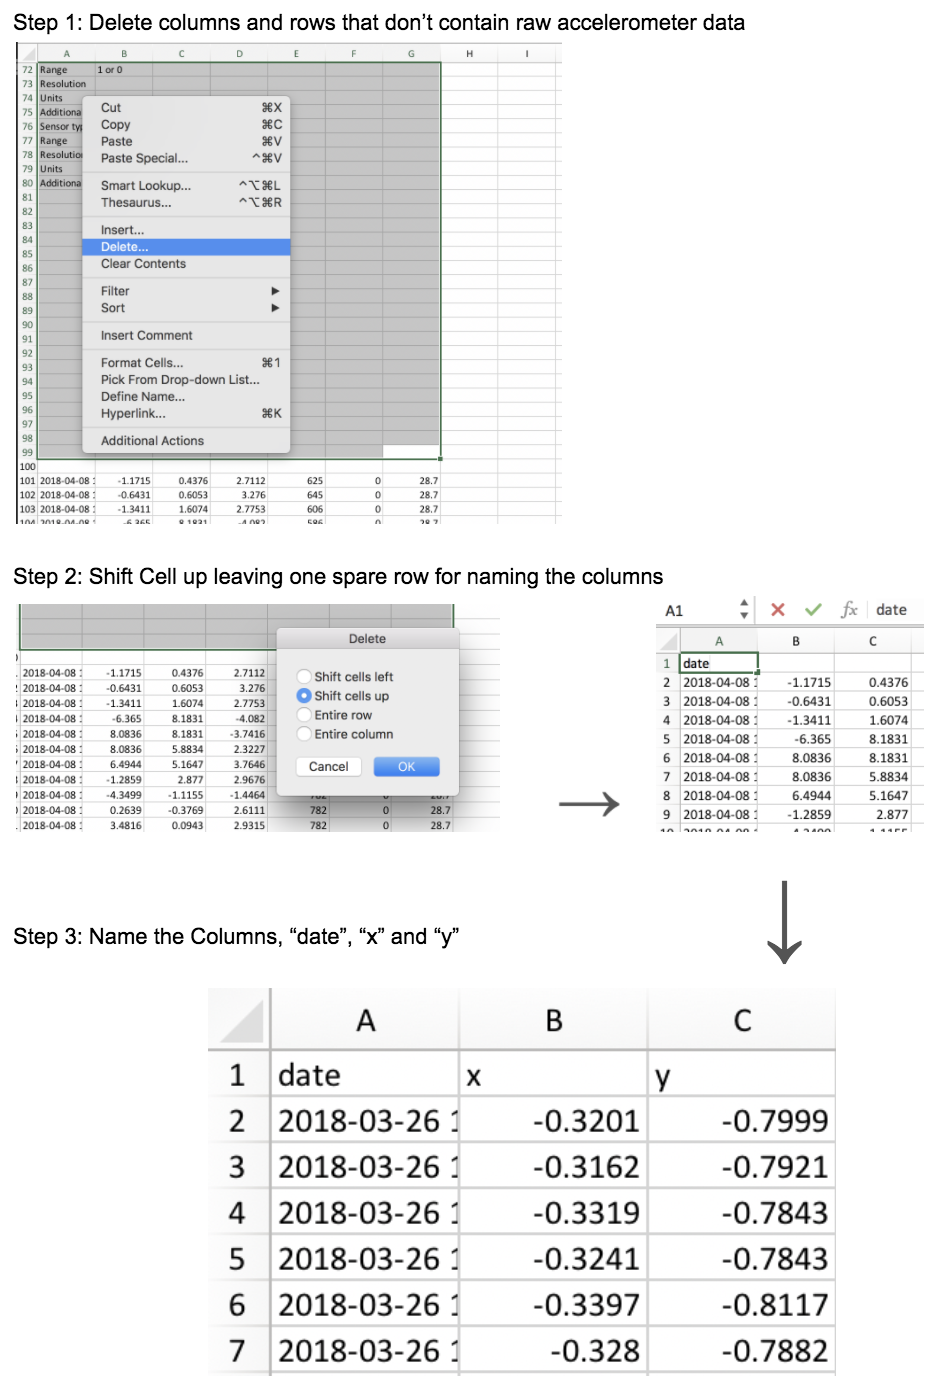
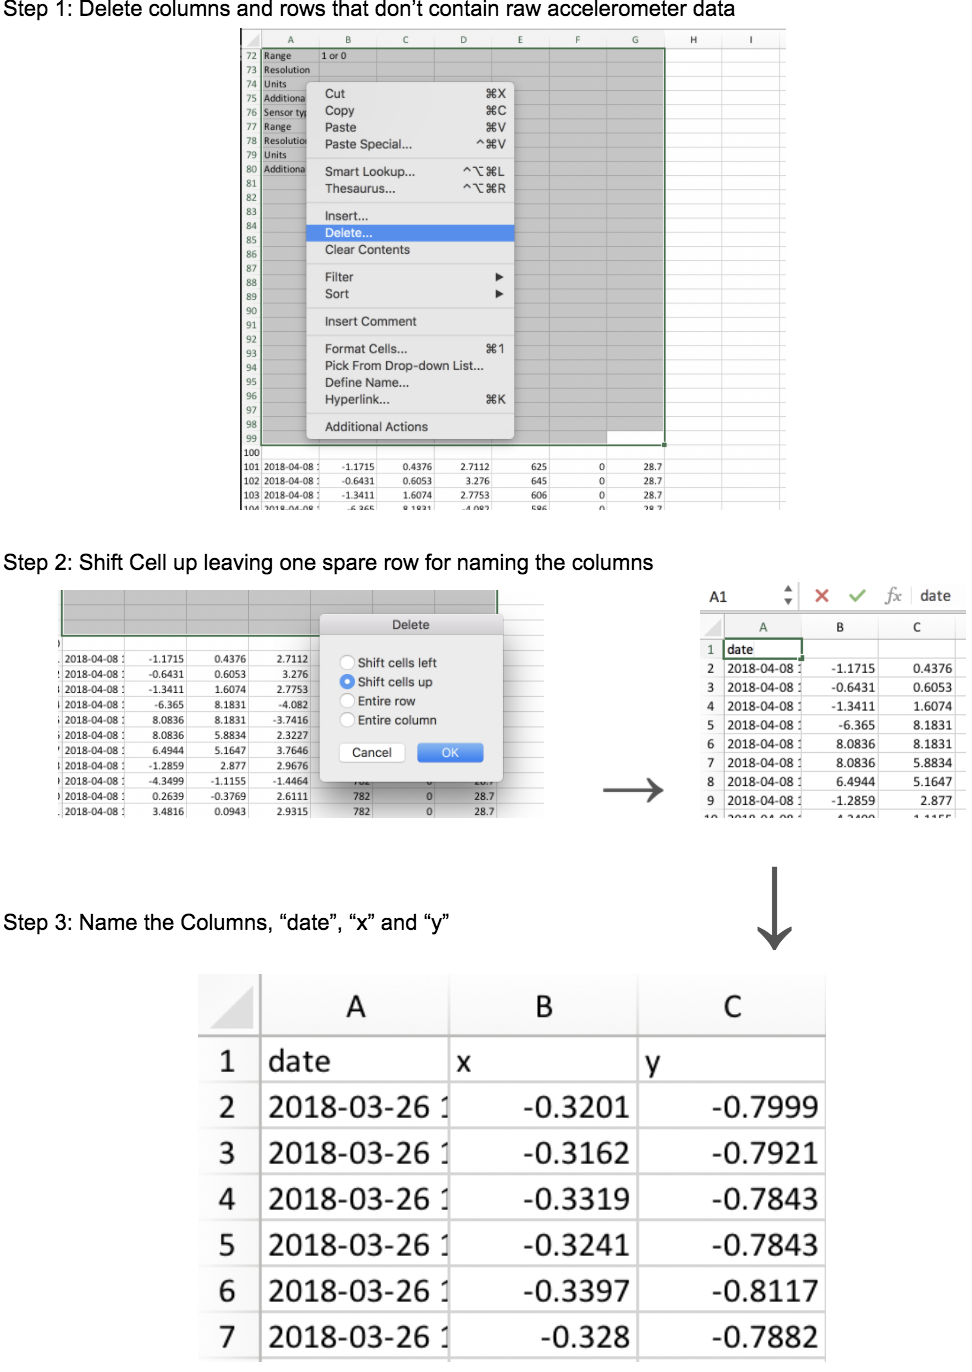
Updated the CSVExample image on the about page

diff --git a/CODE/index.html b/CODE/index.html
@@ -102,7 +102,7 @@ label{
 			</div>
 			<hr>
 			
-			<h4 align="center"><u> Please Upload files to Start</u>
+			<h4 align="center"><b> Please Upload files to Start</b>
 			</h4>
 			<!-- UPLOAD BUTTON -->
 			<label class="control-label">Select Files to Upload:</label>
@@ -249,7 +249,7 @@ label{
 						<div class="fill"></div>
 					</div>
 			</div>
-			<br>
+
 		</td>
 		
 		<td>
@@ -266,8 +266,11 @@ label{
 			
 		</tr>
 	</table>
-	<img style="margin-left: 110px;" src="/images/LowMediumHigh.png" alt="LowMediumHigh" height="85" width="170" >
+	<br>
+	<br>
+
 	<h2> </h2>
+	<img style="margin-left: 110px;" src="/images/LowMediumHigh.png" alt="LowMediumHigh" height="85" width="170" >
 	<div class="card-footer text-muted">
 		Boxing Performance Tracker: Dashboard 
 	</div>

diff --git a/CODE/About.html b/CODE/About.html
@@ -202,7 +202,7 @@ label{
 			<hr>
 					<h3 align="center">Save CSV with a Date, X and Y column</h3>
 					<br>
-					<img src="/images/CSVExample.png" alt="Tutorial">
+					<img src="/images/CSVExample.png" alt="Tutorial" style="width: 80%; height: 80%;">
 					<hr>
 
 
